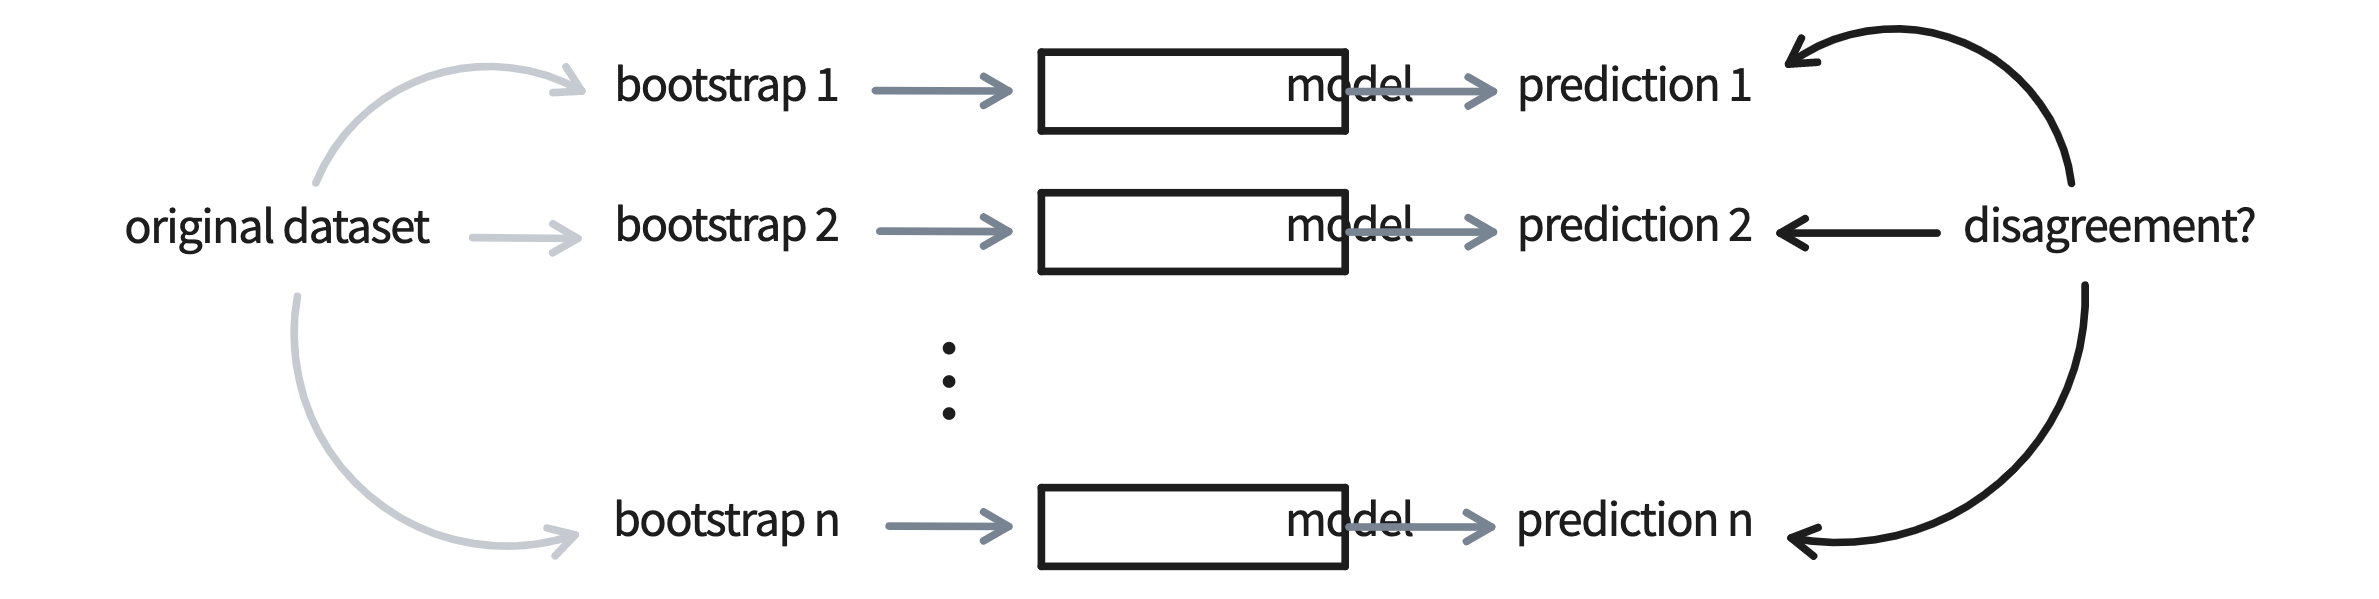
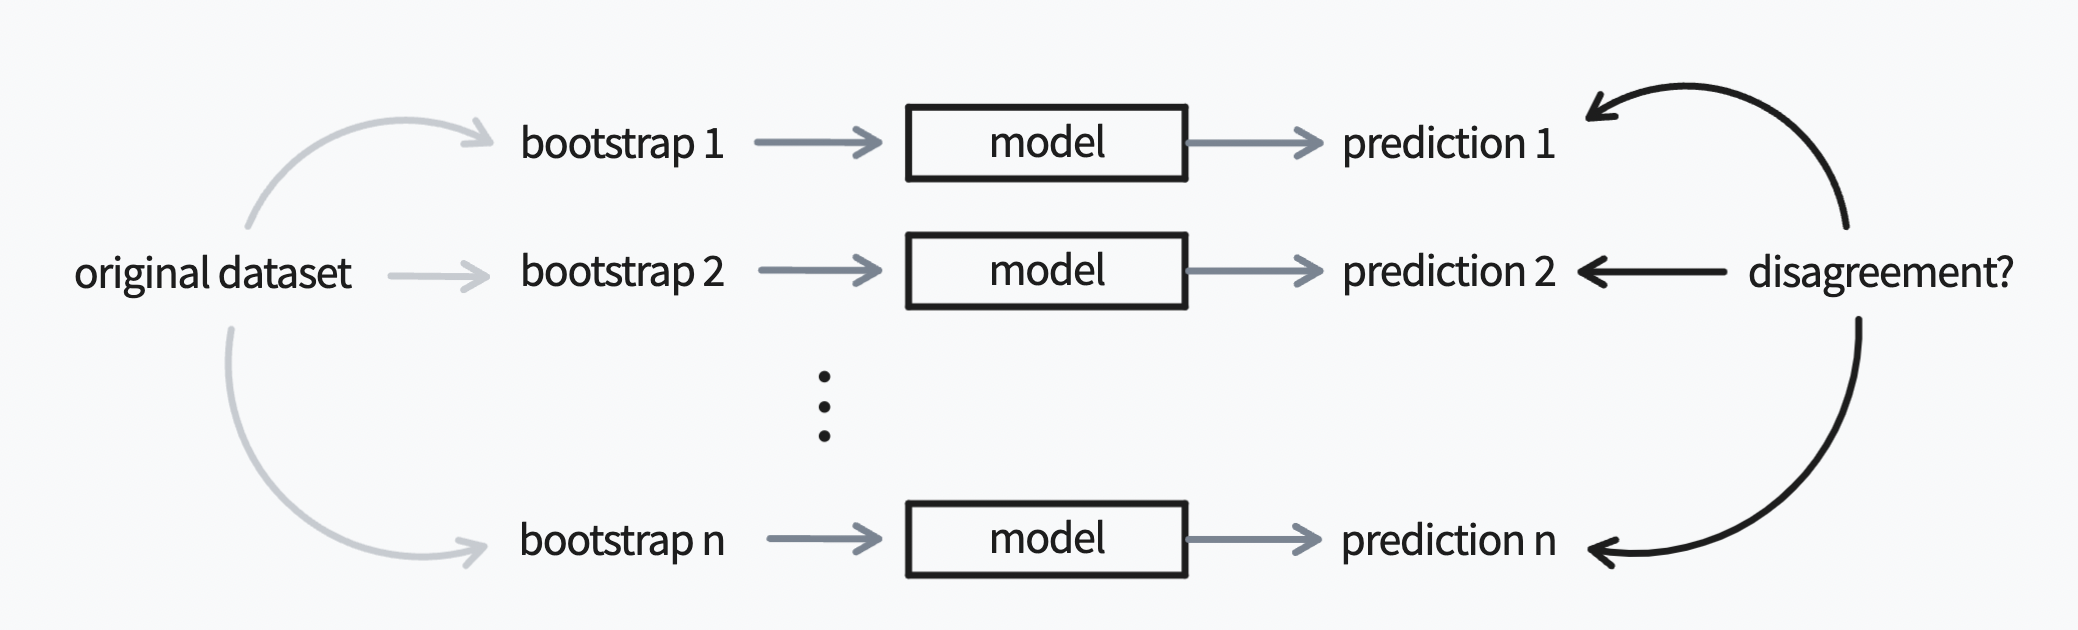
extra-docs

diff --git a/docs/quickstart/advanced.md b/docs/quickstart/advanced.md
@@ -1,1 +1,154 @@
-![](diagram.png)
+The library implements a few general tricks to find bad labels, but you
+can also re-use the components for more elaborate approaches. In this section
+we hope to demonstrate some more techniques.
+
+## Bootstrapping
+
+Bootstrapping can be used as a technique to train many similar, but different,
+models on the same dataset. The predictive difference between these models can
+be used as a proxy for confidence as well as bad labels.
+
+<script src="https://cdn.tailwindcss.com"></script>
+
+<style>
+    .tooltip {
+    background-color: white;
+    color: black;
+    padding: 5px 10px;
+    border-radius: 4px;
+    font-size: 13px;
+    }
+</style>
+
+<div style="position: relative; width: 100%; min-width: 400px;">
+    <img class="h-auto w-full" src="../images/diagram.png">
+    <tooltip style="top:60%; left:15%;" class="font-bold text-sm px-1 py-0 absolute rounded-full bg-blue-500 text-white" id="button1" aria-describedby="tooltip">A</tooltip>
+    <tooltip style="top:60%; left:50%;" class="font-bold text-sm px-1 py-0 absolute rounded-full bg-blue-500 text-white" id="button2" aria-describedby="tooltip">B</tooltip>
+    <tooltip style="top:60%; left:76%;" class="font-bold text-sm px-1 py-0 absolute rounded-full bg-blue-500 text-white" id="button3" aria-describedby="tooltip">C</tooltip>
+</div>
+
+<div class="tooltip text-lg w-64" id="tooltip1" role="tooltip" style="line-height: 150%; position: absolute; inset: 0px auto auto 0px; margin: 0px; transform: translate3d(159.333px, 112.667px, 0px);" data-popper-placement="bottom">
+    Suppose that we start with an original dataset and that we resample it a bunch, using bootstrap samples.
+</div>
+<div class="tooltip text-lg w-64" id="tooltip2" role="tooltip" style="line-height: 150%; position: absolute; inset: 0px auto auto 0px; margin: 0px; transform: translate3d(-15.333px, -146px, 0px);" data-popper-placement="bottom">
+    Then we can train a model on each of these subsets. Each of these models would be different, but given enough samples they should all be reasonable.
+</div>
+<div class="tooltip text-lg w-64" id="tooltip3" role="tooltip" style="line-height: 150%; position: absolute; inset: 0px auto auto 0px; margin: 0px; transform: translate3d(441.333px, 132.667px, 0px);" data-popper-placement="bottom">
+    Because these models are different, the predictions that come out will also differ. If the predictions vary, that's an indication of less confidence, which in turn could indicate bad labels.
+</div>
+
+<script src="https://unpkg.com/@popperjs/core@2"></script>
+<style>
+    .tooltip {
+        display: none;
+    }
+    
+    .tooltip[data-show] {
+        display: block;
+    }
+</style>
+<script>
+    let array = ["#button1", "#button2", "#button3"];
+    for (let index = 0; index < array.length; index++) {
+        let btn = array[index];
+        let button = document.querySelector(btn);
+        let tooltip = document.querySelector(btn.replace("button", "tooltip"));
+        popperInstance = Popper.createPopper(button, tooltip, {
+            placement: "bottom"
+        });
+
+        function show() {
+            tooltip.setAttribute('data-show', '');
+
+            // We need to tell Popper to update the tooltip position
+            // after we show the tooltip, otherwise it will be incorrect
+            popperInstance.update();
+        }
+
+        function hide() {
+            tooltip.removeAttribute('data-show'); 
+        }
+
+        const showEvents = ['mouseenter', 'focus'];
+        const hideEvents = ['mouseleave', 'blur'];
+
+        showEvents.forEach((event) => {
+            button.addEventListener(event, show);
+        });
+
+        hideEvents.forEach((event) => {
+            button.addEventListener(event, hide);
+        });   
+    }
+</script>
+
+You can use scikit-learn to construct a bootstrapped model which can also be used
+in this library. You'll want to use the [bagging ensemble models](https://scikit-learn.org/stable/modules/generated/sklearn.ensemble.BaggingClassifier.html) for this. 
+
+```python
+from sklearn.ensemble import BaggingClassifier
+from sklearn.linear_model import LogisticRegression
+from sklearn.datasets import make_classification
+
+# Load in a demo dataset
+X, y = make_classification()
+
+# Train a classifier based on bootstrap samples
+bc = BaggingClassifier(
+    base_estimator=LogisticRegression(),
+    max_samples=0.5,
+    n_estimators=20
+)
+bc.fit(X, y)
+
+# You can inspect the trained estimators manually
+bc.estimators_
+
+# But you can also predict the probabilities. 
+bc.predict_proba(X)
+```
+
+These probability values indicate how many internal models predicted a class.
+To turn these predicted proba values into a reason for label doubt we can use
+the `ProbaReason`, `LongConfidenceReason` or the `ShortConfidenceReason`. 
+
+### Regression 
+
+There's a similar trick we might be able to do for regression too!
+
+```python
+from sklearn.ensemble import BaggingRegressor
+from sklearn.linear_model import LinearRegression
+from sklearn.datasets import make_regression
+
+# Load in a demo dataset
+X, y = make_regression()
+
+# Train a classifier based on bootstrap samples
+bc = BaggingRegressor(
+    base_estimator=LinearRegression(),
+    max_samples=0.5,
+    n_estimators=20
+)
+bc.fit(X, y)
+
+# You can inspect the trained estimators manually
+bc.estimators_
+
+# So you could check the variance between predictions
+dev = np.array([e.predict(X) for e in bc.estimators]).std(axis=1)
+```
+
+The deviations in `dev` could again be interpreted as a proxy for doubt. Because
+a doubt ensemble is just an ensemble of callables you can implemented a reason
+via:
+
+```python
+from doubtlab.ensemble import DoubtEnsemble 
+
+threshold = 2
+
+DoubtEnsemble(
+    wrong_pred=lambda X, y: np.array([e.predict(X) for e in bc.estimators]).std(axis=1) > threshold
+)
+```
